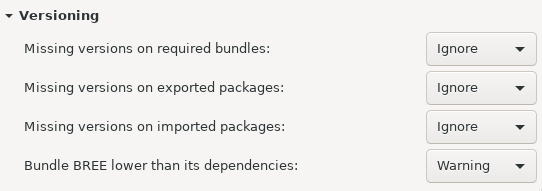
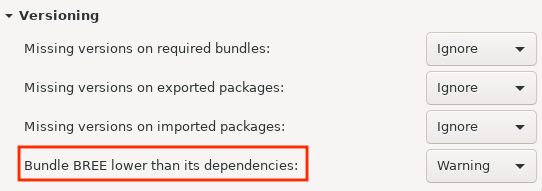
Bug 553342: N&N for 4.14
Resized and annotated images, updated text.

Changed region(s): [[0.0295, 0.7592, 0.5904, 0.9686]]

diff --git a/4.14/platform_isv.html b/4.14/platform_isv.html
@@ -157,10 +157,10 @@ assertTrue(DisplayHelper.waitForCondition(display, 1000, () -> some.boolean() &a
   <tr id="ccombo-alignment"> <!-- https://bugs.eclipse.org/349112 -->
     <td class="title">Set alignment for CCombo</td>
     <td class="content">
-     The <code>CCombo</code> widget can now align the text field content. The alignment is not applied on the drop-down list.
-     <p>Alignment on CCombo can be specified at the time of CCombo instance creation or using <code>setAlignment()</code> API on an existing CCombo instance.
-     Additionally you can get the value of CCombo's alignment using <code>getAlignment()</code> API.</p>
-     <p>Below screen-shot shows possible CCombo alignments:</p>
+     The <code>CCombo</code> widget can now align the text field content, the alignment is not applied to the drop-down list.
+     <p>The alignment for <code>CCombo</code> can be specified as a style bit in the constructor or using the <code>CCombo.setAlignment()</code> method.
+     You can also get the value of the <code>CCombo</code>'s alignment using <code>getAlignment()</code> method.</p>
+     <p>The below screen-shot shows possible <code>CCombo</code> alignments:</p>
      <p><img src="images/ccombo-alignment.png" alt="Aligned CCombo widgets"/></p>
     </td>
   </tr>
